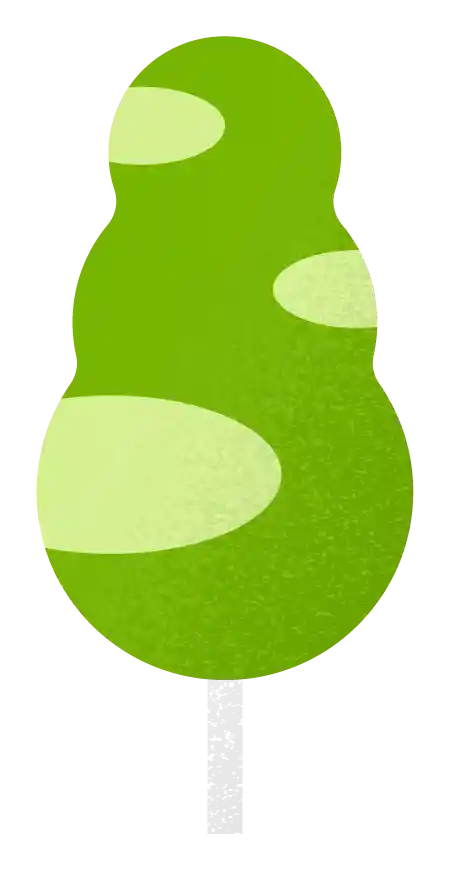
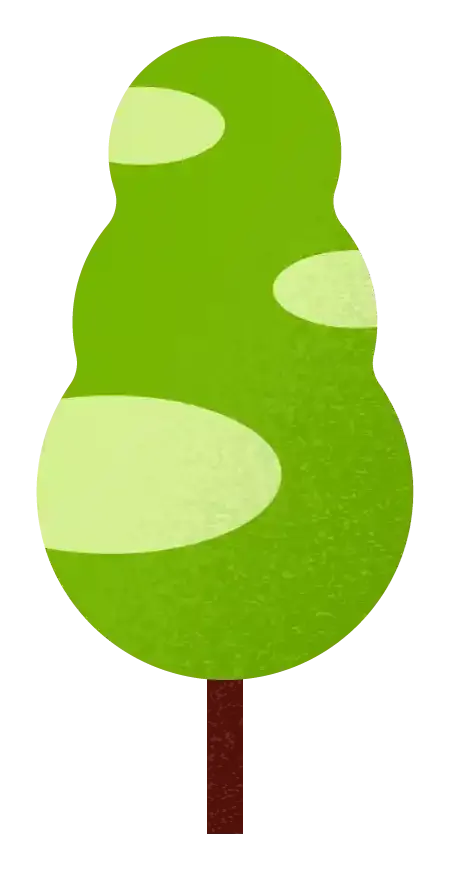
fix: キャラクターとマスの SVG を新しい原色に、草木 windy-meadow-3/4/5 の幹の塗りを補った

Changed region(s): [[0.4356, 0.775, 0.56, 0.961]]

diff --git a/public/css/foundation/_variables.css b/public/css/foundation/_variables.css
@@ -12,7 +12,7 @@
        ここだけ変えると画面内で色が食い違う。
        検出コマンド： grep -rniE '#(f9b900|22ac38|009fe5)' public lib
        ★2026-10-13 に青 #209DDB → #009fe5、黄 #F5B600 → #f9b900 へ変更（JS の直書きと警告の黄の派生色も追従）。
-         キャラクター・マスの SVG（public/images/character・front/tile-image.svg）は素材なので旧色のまま
+         キャラクター・マスの SVG（public/images/character・front/tile-image.svg）も同じ日に新しい色へ置き換えた
        ★rgba() の派生色（--color-primary-* / --color-success-* / --color-warning-*）と
        ライム前提だった緑の派生色も同時に追従させること（2026-08-25 に実施済み）。 */
   --create-yellow: #f9b900;

diff --git a/public/js/mountainAssets.generated.js b/public/js/mountainAssets.generated.js
@@ -105,9 +105,9 @@ export const BG_ASSETS = {
     WorldSpawnedObjects: [
       {"n":"1","w":993,"h":873,"f":"windy-meadow-1.webp","v":"7bec68af"},
       {"n":"2","w":710,"h":873,"f":"windy-meadow-2.webp","v":"fa54baf4"},
-      {"n":"3","w":450,"h":871,"f":"windy-meadow-3.webp","v":"16686a26"},
-      {"n":"4","w":450,"h":871,"f":"windy-meadow-4.webp","v":"630a7fa5"},
-      {"n":"5","w":451,"h":871,"f":"windy-meadow-5.webp","v":"fa27d6d0"},
+      {"n":"3","w":450,"h":871,"f":"windy-meadow-3.webp","v":"106ab479"},
+      {"n":"4","w":450,"h":871,"f":"windy-meadow-4.webp","v":"88b37431"},
+      {"n":"5","w":451,"h":871,"f":"windy-meadow-5.webp","v":"32b99a72"},
     ],
     phenomenon: [],
   },
